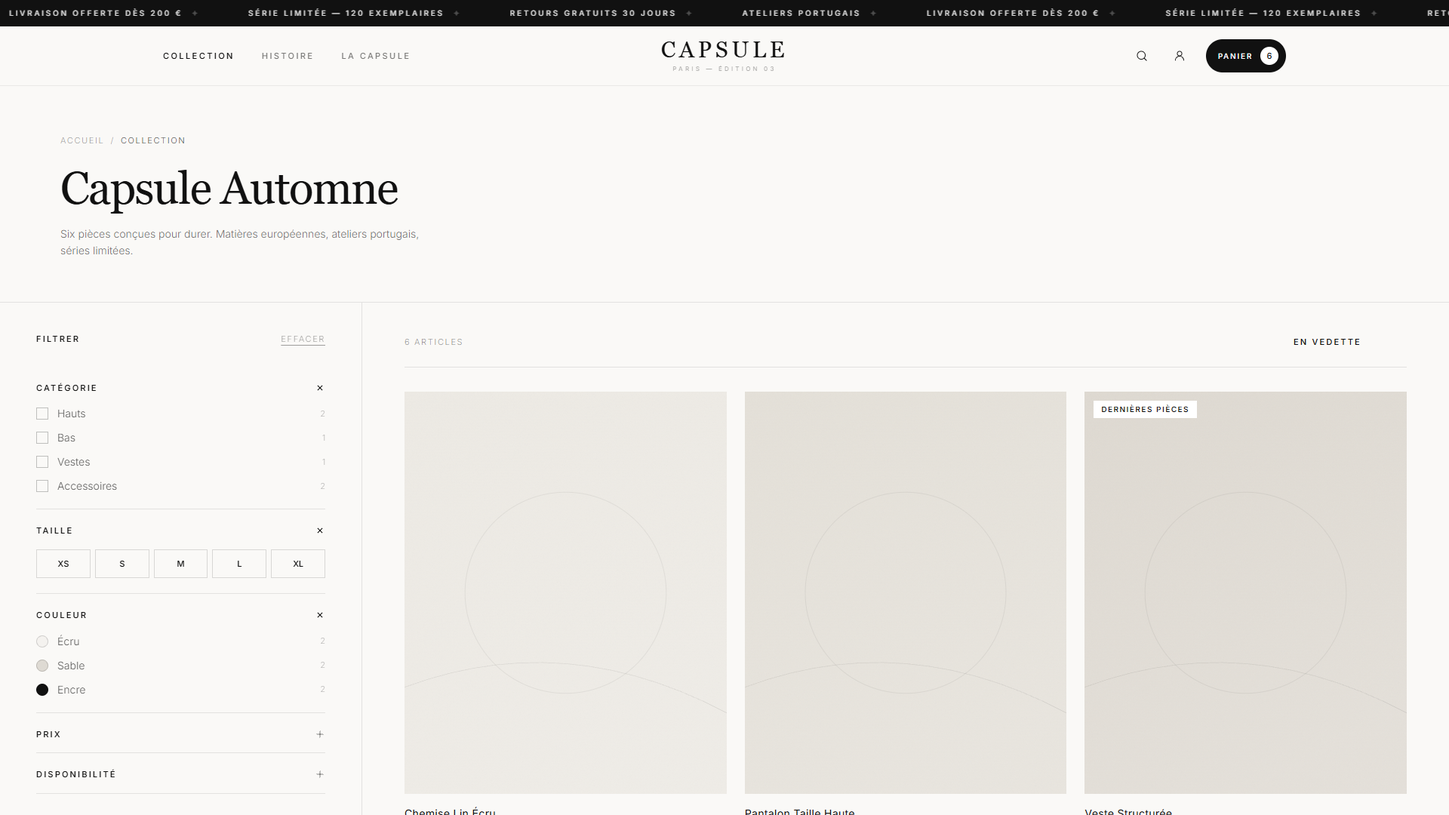
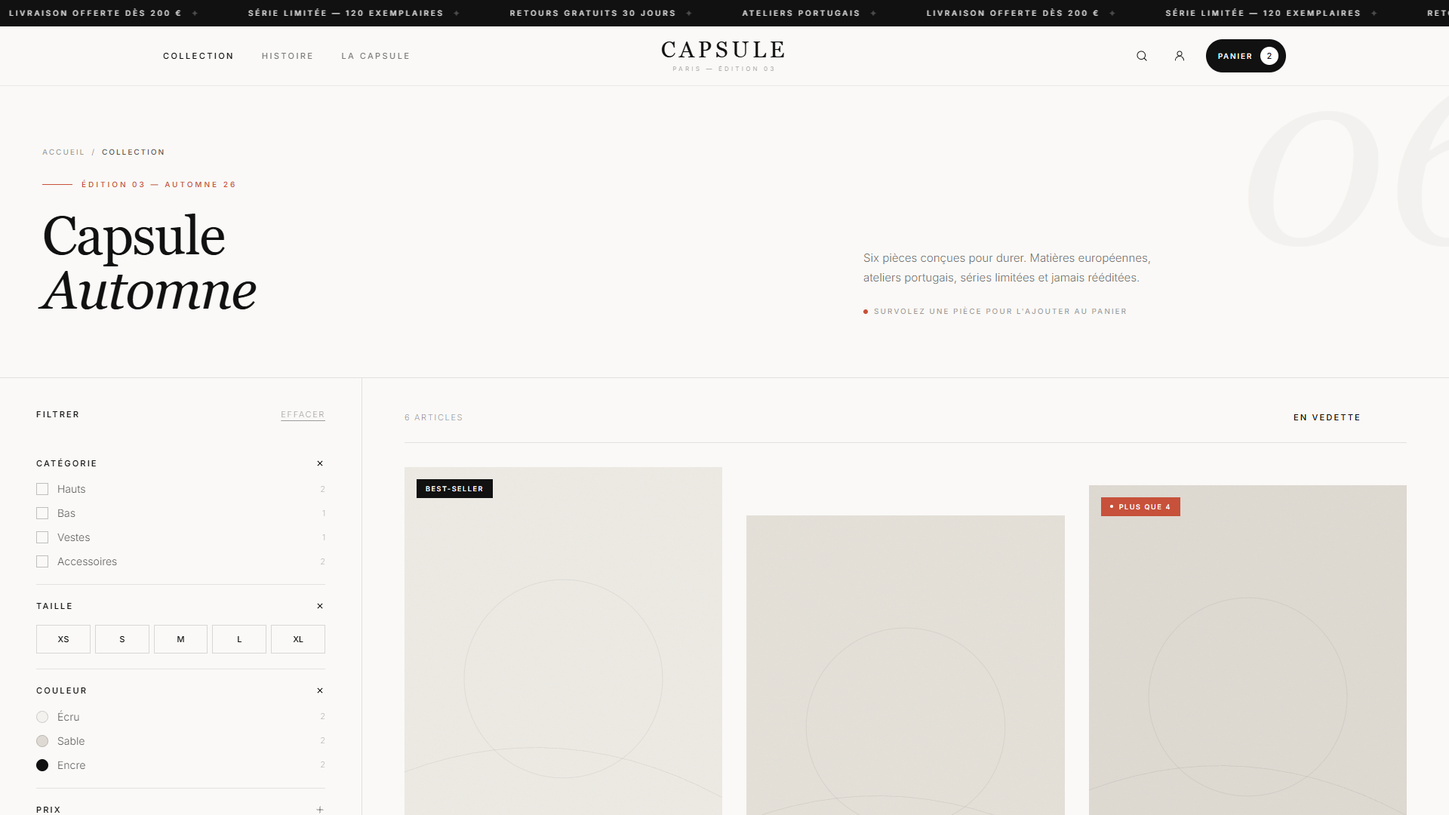
Traitement editorial sur collection et fiche produit + ajout rapide
Collection : en-tete editorial asymetrique, grille redessinee avec
ajout rapide au survol (tailles epuisees barrees), badges de stock.
Le decalage vertical est positionnel (nth-child) et non par carte,
pour que l'asymetrie survive au reordonnancement du tri.

Fiche produit : galerie en mosaique asymetrique, colonne d'achat
sticky, titre serif sur deux lignes, citation d'atelier.

Corrige deux bugs reveles par les tests :
- le badge du panier partageait l'attribut data-count avec le
  compteur d'articles filtres, donc filtrer ecrasait le panier ;
  le badge utilise desormais data-cart-count
- le bouton d'ajout au panier de la fiche produit appelait
  l'ancien tiroir supprime, il ne se passait donc rien

diff --git a/collection.html b/collection.html
@@ -17,12 +17,32 @@
 <div id="site-header"></div>
 
 <main class="bg-[#FAF9F7]">
-  <header class="border-b border-[#111]/10 px-6 pb-10 pt-12 md:px-12 md:pb-14 md:pt-16 lg:px-20">
-    <nav class="mb-6 flex gap-2 text-[11px] font-light uppercase tracking-[0.15em] text-[#111]/40">
-      <a href="index.html" class="transition-colors hover:text-[#111]">Accueil</a><span>/</span><span class="text-[#111]/70">Collection</span>
-    </nav>
-    <h1 class="font-serif font-light leading-tight tracking-tight text-[#111] text-4xl md:text-5xl lg:text-6xl">Capsule Automne</h1>
-    <p class="mt-5 max-w-lg text-sm font-light leading-relaxed text-[#111]/60">Six pièces conçues pour durer. Matières européennes, ateliers portugais, séries limitées.</p>
+  <header class="relative overflow-hidden border-b border-[#111]/10 px-5 pb-14 pt-14 md:px-10 md:pb-20 md:pt-20 lg:px-14">
+    <span class="pointer-events-none absolute -right-24 -top-16 hidden select-none font-serif text-[20rem] italic leading-none text-[#111]/[0.035] lg:block">06</span>
+    <div class="relative grid max-w-[1600px] grid-cols-1 gap-8 lg:grid-cols-12 lg:items-end">
+      <div class="lg:col-span-7">
+        <nav class="mb-7 flex gap-2 text-[10px] font-medium uppercase tracking-[0.2em] text-[#111]/40">
+          <a href="index.html" class="transition-colors duration-500 hover:text-[#111]">Accueil</a><span>/</span><span class="text-[#111]/70">Collection</span>
+        </nav>
+        <div class="flex items-center gap-3">
+          <span class="h-px w-10 bg-[#C7513A]"></span>
+          <span class="text-[10px] font-medium uppercase tracking-[0.3em] text-[#C7513A]">Édition 03 — Automne 26</span>
+        </div>
+        <h1 class="mt-6 font-serif text-5xl font-light leading-[0.9] tracking-[-0.02em] text-[#111] md:text-6xl lg:text-7xl">
+          Capsule<br><span class="italic">Automne</span>
+        </h1>
+      </div>
+      <div class="lg:col-span-4 lg:col-start-9">
+        <p class="max-w-sm text-[15px] font-light leading-[1.75] text-[#111]/60">
+          Six pièces conçues pour durer. Matières européennes, ateliers portugais,
+          séries limitées et jamais rééditées.
+        </p>
+        <p class="mt-6 flex items-center gap-2 text-[10px] font-medium uppercase tracking-[0.2em] text-[#111]/40">
+          <span class="relative flex h-1.5 w-1.5"><span class="absolute inline-flex h-full w-full animate-ping rounded-full bg-[#C7513A] opacity-75"></span><span class="relative inline-flex h-1.5 w-1.5 rounded-full bg-[#C7513A]"></span></span>
+          Survolez une pièce pour l'ajouter au panier
+        </p>
+      </div>
+    </div>
   </header>
 
   <div class="lg:grid lg:grid-cols-12">
@@ -113,30 +133,126 @@
 
       <div data-chips class="hidden flex-wrap items-center gap-2 pt-5"></div>
 
-      <div data-grid class="grid grid-cols-2 gap-x-4 gap-y-12 pt-8 md:gap-x-6 lg:grid-cols-3">
+      <div data-grid class="grid grid-cols-2 gap-x-4 gap-y-14 pt-8 md:gap-x-6 lg:grid-cols-3 lg:gap-x-8">
         <article class="group" data-category="hauts" data-color="ecru" data-price="180" data-sizes="XS,S,M,L" data-stock="in">
-          <a href="produit.html" class="relative block overflow-hidden bg-[#f4f2ef]"><img src="assets/img/p01-chemise.svg" alt="Chemise Lin Écru" class="aspect-[4/5] w-full object-cover transition-transform duration-700 ease-out group-hover:scale-[1.03]"></a>
-          <h3 class="mt-4 text-sm font-normal tracking-wide text-[#111]">Chemise Lin Écru</h3><p class="mt-1 text-sm font-light text-[#111]/60">180 €</p>
+          <div class="relative overflow-hidden bg-[#EDEAE4]">
+            <a href="produit.html" class="block"><img src="assets/img/p01-chemise.svg" alt="Chemise Lin Écru" class="aspect-[3/4] w-full object-cover transition-transform duration-[900ms] ease-out group-hover:scale-[1.06]"></a>
+            <span class="absolute left-4 top-4 bg-[#111] px-3 py-1.5 text-[9px] font-medium uppercase tracking-[0.18em] text-white">Best-seller</span>
+            <button type="button" aria-label="Ajouter aux favoris" class="absolute right-4 top-4 flex h-9 w-9 items-center justify-center rounded-full bg-white/90 opacity-0 backdrop-blur transition-all duration-500 ease-out hover:bg-white group-hover:opacity-100">
+              <svg class="h-4 w-4 text-[#111]" fill="none" stroke="currentColor" stroke-width="1.4" viewBox="0 0 24 24"><path stroke-linecap="round" d="M12 20s-7-4.5-7-9.5A3.5 3.5 0 0 1 12 8a3.5 3.5 0 0 1 7 2.5c0 5-7 9.5-7 9.5Z"/></svg>
+            </button>
+            <div class="absolute inset-x-0 bottom-0 translate-y-full bg-white/95 p-4 backdrop-blur-md transition-transform duration-500 ease-out group-hover:translate-y-0 group-focus-within:translate-y-0">
+              <p class="mb-3 text-center text-[9px] font-medium uppercase tracking-[0.2em] text-[#111]/45">Ajout rapide</p>
+              <div class="flex gap-1.5"><button type="button" data-quick-add="Chemise Lin Écru" data-size="XS" class="flex-1 border border-[#111]/15 py-2.5 text-[11px] font-medium uppercase text-[#111] transition-all duration-300 ease-out hover:border-[#111] hover:bg-[#111] hover:text-white">XS</button><button type="button" data-quick-add="Chemise Lin Écru" data-size="S" class="flex-1 border border-[#111]/15 py-2.5 text-[11px] font-medium uppercase text-[#111] transition-all duration-300 ease-out hover:border-[#111] hover:bg-[#111] hover:text-white">S</button><button type="button" data-quick-add="Chemise Lin Écru" data-size="M" class="flex-1 border border-[#111]/15 py-2.5 text-[11px] font-medium uppercase text-[#111] transition-all duration-300 ease-out hover:border-[#111] hover:bg-[#111] hover:text-white">M</button><button type="button" data-quick-add="Chemise Lin Écru" data-size="L" class="flex-1 border border-[#111]/15 py-2.5 text-[11px] font-medium uppercase text-[#111] transition-all duration-300 ease-out hover:border-[#111] hover:bg-[#111] hover:text-white">L</button><button type="button" disabled class="flex-1 cursor-not-allowed border border-[#111]/10 py-2.5 text-[11px] font-medium uppercase text-[#111]/20 line-through">XL</button></div>
+            </div>
+          </div>
+          <div class="mt-5 flex items-start justify-between gap-4">
+            <div>
+              <h3 class="font-serif text-lg font-light text-[#111]"><a href="produit.html" class="transition-colors duration-500 hover:text-[#C7513A]">Chemise Lin Écru</a></h3>
+              <p class="mt-1.5 text-[11px] font-light uppercase tracking-[0.14em] text-[#111]/45">Lin lavé — 4 coloris</p>
+            </div>
+            <p class="shrink-0 font-serif text-lg font-light text-[#111]">180 €</p>
+          </div>
         </article>
         <article class="group" data-category="bas" data-color="encre" data-price="240" data-sizes="S,M,L" data-stock="in">
-          <a href="produit.html" class="relative block overflow-hidden bg-[#f4f2ef]"><img src="assets/img/p02-pantalon.svg" alt="Pantalon Taille Haute" class="aspect-[4/5] w-full object-cover transition-transform duration-700 ease-out group-hover:scale-[1.03]"></a>
-          <h3 class="mt-4 text-sm font-normal tracking-wide text-[#111]">Pantalon Taille Haute</h3><p class="mt-1 text-sm font-light text-[#111]/60">240 €</p>
+          <div class="relative overflow-hidden bg-[#E4E0D8]">
+            <a href="produit.html" class="block"><img src="assets/img/p02-pantalon.svg" alt="Pantalon Taille Haute" class="aspect-[3/4] w-full object-cover transition-transform duration-[900ms] ease-out group-hover:scale-[1.06]"></a>
+            
+            <button type="button" aria-label="Ajouter aux favoris" class="absolute right-4 top-4 flex h-9 w-9 items-center justify-center rounded-full bg-white/90 opacity-0 backdrop-blur transition-all duration-500 ease-out hover:bg-white group-hover:opacity-100">
+              <svg class="h-4 w-4 text-[#111]" fill="none" stroke="currentColor" stroke-width="1.4" viewBox="0 0 24 24"><path stroke-linecap="round" d="M12 20s-7-4.5-7-9.5A3.5 3.5 0 0 1 12 8a3.5 3.5 0 0 1 7 2.5c0 5-7 9.5-7 9.5Z"/></svg>
+            </button>
+            <div class="absolute inset-x-0 bottom-0 translate-y-full bg-white/95 p-4 backdrop-blur-md transition-transform duration-500 ease-out group-hover:translate-y-0 group-focus-within:translate-y-0">
+              <p class="mb-3 text-center text-[9px] font-medium uppercase tracking-[0.2em] text-[#111]/45">Ajout rapide</p>
+              <div class="flex gap-1.5"><button type="button" disabled class="flex-1 cursor-not-allowed border border-[#111]/10 py-2.5 text-[11px] font-medium uppercase text-[#111]/20 line-through">XS</button><button type="button" data-quick-add="Pantalon Taille Haute" data-size="S" class="flex-1 border border-[#111]/15 py-2.5 text-[11px] font-medium uppercase text-[#111] transition-all duration-300 ease-out hover:border-[#111] hover:bg-[#111] hover:text-white">S</button><button type="button" data-quick-add="Pantalon Taille Haute" data-size="M" class="flex-1 border border-[#111]/15 py-2.5 text-[11px] font-medium uppercase text-[#111] transition-all duration-300 ease-out hover:border-[#111] hover:bg-[#111] hover:text-white">M</button><button type="button" data-quick-add="Pantalon Taille Haute" data-size="L" class="flex-1 border border-[#111]/15 py-2.5 text-[11px] font-medium uppercase text-[#111] transition-all duration-300 ease-out hover:border-[#111] hover:bg-[#111] hover:text-white">L</button><button type="button" disabled class="flex-1 cursor-not-allowed border border-[#111]/10 py-2.5 text-[11px] font-medium uppercase text-[#111]/20 line-through">XL</button></div>
+            </div>
+          </div>
+          <div class="mt-5 flex items-start justify-between gap-4">
+            <div>
+              <h3 class="font-serif text-lg font-light text-[#111]"><a href="produit.html" class="transition-colors duration-500 hover:text-[#C7513A]">Pantalon Taille Haute</a></h3>
+              <p class="mt-1.5 text-[11px] font-light uppercase tracking-[0.14em] text-[#111]/45">Coupe droite — 2 coloris</p>
+            </div>
+            <p class="shrink-0 font-serif text-lg font-light text-[#111]">240 €</p>
+          </div>
         </article>
         <article class="group" data-category="vestes" data-color="sable" data-price="390" data-sizes="S,M" data-stock="low">
-          <a href="produit.html" class="relative block overflow-hidden bg-[#f4f2ef]"><img src="assets/img/p03-veste.svg" alt="Veste Structurée" class="aspect-[4/5] w-full object-cover transition-transform duration-700 ease-out group-hover:scale-[1.03]"><span class="absolute left-3 top-3 bg-white px-2.5 py-1 text-[10px] font-medium uppercase tracking-[0.15em] text-[#111]">Dernières pièces</span></a>
-          <h3 class="mt-4 text-sm font-normal tracking-wide text-[#111]">Veste Structurée</h3><p class="mt-1 text-sm font-light text-[#111]/60">390 €</p>
+          <div class="relative overflow-hidden bg-[#DED9D1]">
+            <a href="produit.html" class="block"><img src="assets/img/p03-veste.svg" alt="Veste Structurée" class="aspect-[3/4] w-full object-cover transition-transform duration-[900ms] ease-out group-hover:scale-[1.06]"></a>
+            <span class="absolute left-4 top-4 flex items-center gap-2 bg-[#C7513A] px-3 py-1.5 text-[9px] font-medium uppercase tracking-[0.18em] text-white"><span class="h-1 w-1 rounded-full bg-white"></span>Plus que 4</span>
+            <button type="button" aria-label="Ajouter aux favoris" class="absolute right-4 top-4 flex h-9 w-9 items-center justify-center rounded-full bg-white/90 opacity-0 backdrop-blur transition-all duration-500 ease-out hover:bg-white group-hover:opacity-100">
+              <svg class="h-4 w-4 text-[#111]" fill="none" stroke="currentColor" stroke-width="1.4" viewBox="0 0 24 24"><path stroke-linecap="round" d="M12 20s-7-4.5-7-9.5A3.5 3.5 0 0 1 12 8a3.5 3.5 0 0 1 7 2.5c0 5-7 9.5-7 9.5Z"/></svg>
+            </button>
+            <div class="absolute inset-x-0 bottom-0 translate-y-full bg-white/95 p-4 backdrop-blur-md transition-transform duration-500 ease-out group-hover:translate-y-0 group-focus-within:translate-y-0">
+              <p class="mb-3 text-center text-[9px] font-medium uppercase tracking-[0.2em] text-[#111]/45">Ajout rapide</p>
+              <div class="flex gap-1.5"><button type="button" disabled class="flex-1 cursor-not-allowed border border-[#111]/10 py-2.5 text-[11px] font-medium uppercase text-[#111]/20 line-through">XS</button><button type="button" data-quick-add="Veste Structurée" data-size="S" class="flex-1 border border-[#111]/15 py-2.5 text-[11px] font-medium uppercase text-[#111] transition-all duration-300 ease-out hover:border-[#111] hover:bg-[#111] hover:text-white">S</button><button type="button" data-quick-add="Veste Structurée" data-size="M" class="flex-1 border border-[#111]/15 py-2.5 text-[11px] font-medium uppercase text-[#111] transition-all duration-300 ease-out hover:border-[#111] hover:bg-[#111] hover:text-white">M</button><button type="button" disabled class="flex-1 cursor-not-allowed border border-[#111]/10 py-2.5 text-[11px] font-medium uppercase text-[#111]/20 line-through">L</button><button type="button" disabled class="flex-1 cursor-not-allowed border border-[#111]/10 py-2.5 text-[11px] font-medium uppercase text-[#111]/20 line-through">XL</button></div>
+            </div>
+          </div>
+          <div class="mt-5 flex items-start justify-between gap-4">
+            <div>
+              <h3 class="font-serif text-lg font-light text-[#111]"><a href="produit.html" class="transition-colors duration-500 hover:text-[#C7513A]">Veste Structurée</a></h3>
+              <p class="mt-1.5 text-[11px] font-light uppercase tracking-[0.14em] text-[#111]/45">Épaules construites</p>
+            </div>
+            <p class="shrink-0 font-serif text-lg font-light text-[#111]">390 €</p>
+          </div>
         </article>
         <article class="group" data-category="accessoires" data-color="encre" data-price="120" data-sizes="S,M,L" data-stock="in">
-          <a href="produit.html" class="relative block overflow-hidden bg-[#f4f2ef]"><img src="assets/img/p02-pantalon.svg" alt="Ceinture Cuir" class="aspect-[4/5] w-full object-cover transition-transform duration-700 ease-out group-hover:scale-[1.03]"></a>
-          <h3 class="mt-4 text-sm font-normal tracking-wide text-[#111]">Ceinture Cuir</h3><p class="mt-1 text-sm font-light text-[#111]/60">120 €</p>
+          <div class="relative overflow-hidden bg-[#E4E0D8]">
+            <a href="produit.html" class="block"><img src="assets/img/p02-pantalon.svg" alt="Ceinture Cuir" class="aspect-[3/4] w-full object-cover transition-transform duration-[900ms] ease-out group-hover:scale-[1.06]"></a>
+            
+            <button type="button" aria-label="Ajouter aux favoris" class="absolute right-4 top-4 flex h-9 w-9 items-center justify-center rounded-full bg-white/90 opacity-0 backdrop-blur transition-all duration-500 ease-out hover:bg-white group-hover:opacity-100">
+              <svg class="h-4 w-4 text-[#111]" fill="none" stroke="currentColor" stroke-width="1.4" viewBox="0 0 24 24"><path stroke-linecap="round" d="M12 20s-7-4.5-7-9.5A3.5 3.5 0 0 1 12 8a3.5 3.5 0 0 1 7 2.5c0 5-7 9.5-7 9.5Z"/></svg>
+            </button>
+            <div class="absolute inset-x-0 bottom-0 translate-y-full bg-white/95 p-4 backdrop-blur-md transition-transform duration-500 ease-out group-hover:translate-y-0 group-focus-within:translate-y-0">
+              <p class="mb-3 text-center text-[9px] font-medium uppercase tracking-[0.2em] text-[#111]/45">Ajout rapide</p>
+              <div class="flex gap-1.5"><button type="button" disabled class="flex-1 cursor-not-allowed border border-[#111]/10 py-2.5 text-[11px] font-medium uppercase text-[#111]/20 line-through">XS</button><button type="button" data-quick-add="Ceinture Cuir" data-size="S" class="flex-1 border border-[#111]/15 py-2.5 text-[11px] font-medium uppercase text-[#111] transition-all duration-300 ease-out hover:border-[#111] hover:bg-[#111] hover:text-white">S</button><button type="button" data-quick-add="Ceinture Cuir" data-size="M" class="flex-1 border border-[#111]/15 py-2.5 text-[11px] font-medium uppercase text-[#111] transition-all duration-300 ease-out hover:border-[#111] hover:bg-[#111] hover:text-white">M</button><button type="button" data-quick-add="Ceinture Cuir" data-size="L" class="flex-1 border border-[#111]/15 py-2.5 text-[11px] font-medium uppercase text-[#111] transition-all duration-300 ease-out hover:border-[#111] hover:bg-[#111] hover:text-white">L</button><button type="button" disabled class="flex-1 cursor-not-allowed border border-[#111]/10 py-2.5 text-[11px] font-medium uppercase text-[#111]/20 line-through">XL</button></div>
+            </div>
+          </div>
+          <div class="mt-5 flex items-start justify-between gap-4">
+            <div>
+              <h3 class="font-serif text-lg font-light text-[#111]"><a href="produit.html" class="transition-colors duration-500 hover:text-[#C7513A]">Ceinture Cuir</a></h3>
+              <p class="mt-1.5 text-[11px] font-light uppercase tracking-[0.14em] text-[#111]/45">Cuir pleine fleur</p>
+            </div>
+            <p class="shrink-0 font-serif text-lg font-light text-[#111]">120 €</p>
+          </div>
         </article>
         <article class="group" data-category="accessoires" data-color="ecru" data-price="95" data-sizes="XS,S,M,L,XL" data-stock="in">
-          <a href="produit.html" class="relative block overflow-hidden bg-[#f4f2ef]"><img src="assets/img/p01-chemise.svg" alt="Foulard Soie" class="aspect-[4/5] w-full object-cover transition-transform duration-700 ease-out group-hover:scale-[1.03]"><span class="absolute left-3 top-3 bg-[#111] px-2.5 py-1 text-[10px] font-medium uppercase tracking-[0.15em] text-white">Nouveau</span></a>
-          <h3 class="mt-4 text-sm font-normal tracking-wide text-[#111]">Foulard Soie</h3><p class="mt-1 text-sm font-light text-[#111]/60">95 €</p>
+          <div class="relative overflow-hidden bg-[#EDEAE4]">
+            <a href="produit.html" class="block"><img src="assets/img/p01-chemise.svg" alt="Foulard Soie" class="aspect-[3/4] w-full object-cover transition-transform duration-[900ms] ease-out group-hover:scale-[1.06]"></a>
+            <span class="absolute left-4 top-4 bg-[#111] px-3 py-1.5 text-[9px] font-medium uppercase tracking-[0.18em] text-white">Nouveau</span>
+            <button type="button" aria-label="Ajouter aux favoris" class="absolute right-4 top-4 flex h-9 w-9 items-center justify-center rounded-full bg-white/90 opacity-0 backdrop-blur transition-all duration-500 ease-out hover:bg-white group-hover:opacity-100">
+              <svg class="h-4 w-4 text-[#111]" fill="none" stroke="currentColor" stroke-width="1.4" viewBox="0 0 24 24"><path stroke-linecap="round" d="M12 20s-7-4.5-7-9.5A3.5 3.5 0 0 1 12 8a3.5 3.5 0 0 1 7 2.5c0 5-7 9.5-7 9.5Z"/></svg>
+            </button>
+            <div class="absolute inset-x-0 bottom-0 translate-y-full bg-white/95 p-4 backdrop-blur-md transition-transform duration-500 ease-out group-hover:translate-y-0 group-focus-within:translate-y-0">
+              <p class="mb-3 text-center text-[9px] font-medium uppercase tracking-[0.2em] text-[#111]/45">Ajout rapide</p>
+              <div class="flex gap-1.5"><button type="button" data-quick-add="Foulard Soie" data-size="XS" class="flex-1 border border-[#111]/15 py-2.5 text-[11px] font-medium uppercase text-[#111] transition-all duration-300 ease-out hover:border-[#111] hover:bg-[#111] hover:text-white">XS</button><button type="button" data-quick-add="Foulard Soie" data-size="S" class="flex-1 border border-[#111]/15 py-2.5 text-[11px] font-medium uppercase text-[#111] transition-all duration-300 ease-out hover:border-[#111] hover:bg-[#111] hover:text-white">S</button><button type="button" data-quick-add="Foulard Soie" data-size="M" class="flex-1 border border-[#111]/15 py-2.5 text-[11px] font-medium uppercase text-[#111] transition-all duration-300 ease-out hover:border-[#111] hover:bg-[#111] hover:text-white">M</button><button type="button" data-quick-add="Foulard Soie" data-size="L" class="flex-1 border border-[#111]/15 py-2.5 text-[11px] font-medium uppercase text-[#111] transition-all duration-300 ease-out hover:border-[#111] hover:bg-[#111] hover:text-white">L</button><button type="button" data-quick-add="Foulard Soie" data-size="XL" class="flex-1 border border-[#111]/15 py-2.5 text-[11px] font-medium uppercase text-[#111] transition-all duration-300 ease-out hover:border-[#111] hover:bg-[#111] hover:text-white">XL</button></div>
+            </div>
+          </div>
+          <div class="mt-5 flex items-start justify-between gap-4">
+            <div>
+              <h3 class="font-serif text-lg font-light text-[#111]"><a href="produit.html" class="transition-colors duration-500 hover:text-[#C7513A]">Foulard Soie</a></h3>
+              <p class="mt-1.5 text-[11px] font-light uppercase tracking-[0.14em] text-[#111]/45">Soie sergée — taille unique</p>
+            </div>
+            <p class="shrink-0 font-serif text-lg font-light text-[#111]">95 €</p>
+          </div>
         </article>
         <article class="group" data-category="hauts" data-color="sable" data-price="140" data-sizes="M,L,XL" data-stock="in">
-          <a href="produit.html" class="relative block overflow-hidden bg-[#f4f2ef]"><img src="assets/img/p01-chemise.svg" alt="Sac Toile" class="aspect-[4/5] w-full object-cover transition-transform duration-700 ease-out group-hover:scale-[1.03]"></a>
-          <h3 class="mt-4 text-sm font-normal tracking-wide text-[#111]">Sac Toile</h3><p class="mt-1 text-sm font-light text-[#111]/60">140 €</p>
+          <div class="relative overflow-hidden bg-[#DED9D1]">
+            <a href="produit.html" class="block"><img src="assets/img/p03-veste.svg" alt="Sac Toile" class="aspect-[3/4] w-full object-cover transition-transform duration-[900ms] ease-out group-hover:scale-[1.06]"></a>
+            
+            <button type="button" aria-label="Ajouter aux favoris" class="absolute right-4 top-4 flex h-9 w-9 items-center justify-center rounded-full bg-white/90 opacity-0 backdrop-blur transition-all duration-500 ease-out hover:bg-white group-hover:opacity-100">
+              <svg class="h-4 w-4 text-[#111]" fill="none" stroke="currentColor" stroke-width="1.4" viewBox="0 0 24 24"><path stroke-linecap="round" d="M12 20s-7-4.5-7-9.5A3.5 3.5 0 0 1 12 8a3.5 3.5 0 0 1 7 2.5c0 5-7 9.5-7 9.5Z"/></svg>
+            </button>
+            <div class="absolute inset-x-0 bottom-0 translate-y-full bg-white/95 p-4 backdrop-blur-md transition-transform duration-500 ease-out group-hover:translate-y-0 group-focus-within:translate-y-0">
+              <p class="mb-3 text-center text-[9px] font-medium uppercase tracking-[0.2em] text-[#111]/45">Ajout rapide</p>
+              <div class="flex gap-1.5"><button type="button" disabled class="flex-1 cursor-not-allowed border border-[#111]/10 py-2.5 text-[11px] font-medium uppercase text-[#111]/20 line-through">XS</button><button type="button" disabled class="flex-1 cursor-not-allowed border border-[#111]/10 py-2.5 text-[11px] font-medium uppercase text-[#111]/20 line-through">S</button><button type="button" data-quick-add="Sac Toile" data-size="M" class="flex-1 border border-[#111]/15 py-2.5 text-[11px] font-medium uppercase text-[#111] transition-all duration-300 ease-out hover:border-[#111] hover:bg-[#111] hover:text-white">M</button><button type="button" data-quick-add="Sac Toile" data-size="L" class="flex-1 border border-[#111]/15 py-2.5 text-[11px] font-medium uppercase text-[#111] transition-all duration-300 ease-out hover:border-[#111] hover:bg-[#111] hover:text-white">L</button><button type="button" data-quick-add="Sac Toile" data-size="XL" class="flex-1 border border-[#111]/15 py-2.5 text-[11px] font-medium uppercase text-[#111] transition-all duration-300 ease-out hover:border-[#111] hover:bg-[#111] hover:text-white">XL</button></div>
+            </div>
+          </div>
+          <div class="mt-5 flex items-start justify-between gap-4">
+            <div>
+              <h3 class="font-serif text-lg font-light text-[#111]"><a href="produit.html" class="transition-colors duration-500 hover:text-[#C7513A]">Sac Toile</a></h3>
+              <p class="mt-1.5 text-[11px] font-light uppercase tracking-[0.14em] text-[#111]/45">Toile de coton lavée</p>
+            </div>
+            <p class="shrink-0 font-serif text-lg font-light text-[#111]">140 €</p>
+          </div>
         </article>
       </div>
 
@@ -251,6 +367,12 @@ document.addEventListener('DOMContentLoaded', () => {
   };
   document.querySelector('[data-filters-open]').addEventListener('click', () => set(true));
   panel.querySelectorAll('[data-filters-close]').forEach(b => b.addEventListener('click', () => set(false)));
+
+  document.querySelectorAll('[data-quick-add]').forEach(btn => {
+    btn.addEventListener('click', () => {
+      capsuleToast(btn.dataset.quickAdd, 'Taille ' + btn.dataset.size + ' — ajouté au panier');
+    });
+  });
 
   apply();
 });

diff --git a/produit.html b/produit.html
@@ -17,26 +17,41 @@
 <div id="site-header"></div>
 
 <main class="bg-[#FAF9F7]">
-  <div class="lg:grid lg:grid-cols-2 lg:items-start">
+  <div class="mx-auto grid max-w-[1600px] grid-cols-1 items-start gap-6 px-0 lg:grid-cols-12 lg:gap-8 lg:px-14 lg:py-10">
 
-    <div class="lg:sticky lg:top-[73px]">
-      <div class="flex snap-x snap-mandatory overflow-x-auto lg:grid lg:grid-cols-1 lg:gap-1 lg:overflow-visible">
-        <img src="assets/img/p01-chemise.svg" alt="Chemise Lin Écru — face" class="aspect-[4/5] w-full shrink-0 snap-center object-cover">
-        <img src="assets/img/p02-pantalon.svg" alt="Chemise Lin Écru — dos" class="aspect-[4/5] w-full shrink-0 snap-center object-cover">
-        <img src="assets/img/p03-veste.svg" alt="Chemise Lin Écru — détail" class="aspect-[4/5] w-full shrink-0 snap-center object-cover">
+    <div class="lg:col-span-7">
+      <div class="grid grid-cols-12 gap-2 md:gap-3">
+        <figure class="group relative col-span-12 overflow-hidden bg-[#EDEAE4]">
+          <img src="assets/img/p01-chemise.svg" alt="Chemise Lin Écru portée de face" class="aspect-[4/5] w-full object-cover transition-transform duration-[900ms] ease-out group-hover:scale-105">
+          <figcaption class="absolute bottom-5 left-5 bg-white/90 px-3 py-1.5 text-[9px] font-medium uppercase tracking-[0.18em] text-[#111] backdrop-blur">Porté taille S</figcaption>
+        </figure>
+        <figure class="group col-span-7 overflow-hidden bg-[#E4E0D8]">
+          <img src="assets/img/p02-pantalon.svg" alt="Chemise Lin Écru vue de dos" class="aspect-square w-full object-cover transition-transform duration-[900ms] ease-out group-hover:scale-105">
+        </figure>
+        <figure class="group col-span-5 overflow-hidden bg-[#DED9D1]">
+          <img src="assets/img/p03-veste.svg" alt="Détail du tissage et des boutons corozo" class="aspect-square w-full object-cover transition-transform duration-[900ms] ease-out group-hover:scale-105">
+        </figure>
       </div>
+
+      <figure class="mt-2 flex flex-col justify-center bg-[#111] p-8 md:mt-3 md:p-12">
+        <svg class="h-5 w-5 text-white/35" fill="none" stroke="currentColor" stroke-width="1.2" viewBox="0 0 24 24"><path stroke-linecap="round" d="M8 6h13M8 12h13M8 18h13M3 6h.01M3 12h.01M3 18h.01"/></svg>
+        <blockquote class="mt-6 font-serif text-2xl font-light italic leading-snug text-white md:text-3xl">
+          « Le lin lavé gagne en tenue à chaque passage. Une chemise qui vieillit mieux qu'elle ne se vend. »
+        </blockquote>
+        <figcaption class="mt-6 text-[10px] font-medium uppercase tracking-[0.2em] text-white/40">Notes de l'atelier — Porto</figcaption>
+      </figure>
     </div>
 
-    <div class="px-6 pb-20 pt-8 md:px-12 lg:px-16 lg:pt-20 xl:px-24">
+    <div class="px-5 pb-20 pt-10 md:px-10 lg:col-span-5 lg:sticky lg:top-[132px] lg:px-0 lg:pl-12 lg:pt-4 xl:pl-16">
 
       <nav class="mb-8 flex gap-2 text-[11px] font-light uppercase tracking-[0.15em] text-[#111]/40">
         <a href="index.html" class="transition-colors hover:text-[#111]">Accueil</a><span>/</span>
         <a href="collection.html" class="transition-colors hover:text-[#111]">Collection</a>
       </nav>
 
-      <p class="text-[11px] font-light uppercase tracking-[0.3em] text-[#111]/40">Édition limitée</p>
-      <h1 class="font-serif mt-4 font-light leading-tight tracking-tight text-[#111] text-3xl md:text-4xl lg:text-5xl">Chemise Lin Écru</h1>
-      <p class="mt-4 text-xl font-light text-[#111]">180 €</p>
+      <div class="flex items-center gap-3"><span class="h-px w-10 bg-[#C7513A]"></span><span class="text-[10px] font-medium uppercase tracking-[0.3em] text-[#C7513A]">Édition limitée — 120 exemplaires</span></div>
+      <h1 class="mt-6 font-serif text-4xl font-light leading-[0.95] tracking-[-0.02em] text-[#111] md:text-5xl lg:text-[3.4rem]">Chemise<br><span class="italic">Lin Écru</span></h1>
+      <p class="mt-6 font-serif text-2xl font-light text-[#111]">180 €</p>
       <p class="mt-1 text-[11px] font-light text-[#111]/40">Taxes incluses. Livraison calculée au paiement.</p>
 
       <p class="mt-8 max-w-md text-sm font-light leading-relaxed text-[#111]/60">
@@ -130,7 +145,7 @@ document.addEventListener('DOMContentLoaded', () => {
       group.scrollIntoView({ behavior: 'smooth', block: 'center' });
       return;
     }
-    document.querySelector('[data-cart-open]').click();
+    capsuleToast('Chemise Lin Écru', 'Taille ' + form.querySelector('input[name="size"]:checked').value + ' — ajouté au panier');
   });
 });
 </script>

diff --git a/assets/app.js b/assets/app.js
@@ -62,7 +62,7 @@ const HEADER = `
 
       <a href="panier.html" class="group ml-1 flex items-center gap-2.5 rounded-full bg-[#111] py-2.5 pl-4 pr-2.5 transition-all duration-500 ease-out hover:bg-[#2b2b2b]">
         <span class="text-[10px] font-medium uppercase tracking-[0.18em] text-white">Panier</span>
-        <span data-count class="flex h-6 w-6 items-center justify-center rounded-full bg-white text-[11px] font-medium text-[#111] transition-transform duration-500 ease-out group-hover:scale-110">2</span>
+        <span data-cart-count class="flex h-6 w-6 items-center justify-center rounded-full bg-white text-[11px] font-medium text-[#111] transition-transform duration-500 ease-out group-hover:scale-110">2</span>
       </a>
     </div>
   </nav>
@@ -200,7 +200,7 @@ window.capsuleToast = (titre, sous) => {
   toast.querySelector('[data-toast-title]').textContent = titre;
   toast.querySelector('[data-toast-sub]').textContent = sous;
 
-  const count = document.querySelector('[data-count]');
+  const count = document.querySelector('[data-cart-count]');
   if (count) {
     count.textContent = +count.textContent + 1;
     count.animate([{ transform: 'scale(1)' }, { transform: 'scale(1.35)' }, { transform: 'scale(1)' }], { duration: 450, easing: 'ease-out' });

diff --git a/assets/site.css b/assets/site.css
@@ -16,3 +16,11 @@ html { scroll-behavior: smooth; }
 input[type="number"] { appearance: textfield; -moz-appearance: textfield; }
 input[type="number"]::-webkit-inner-spin-button,
 input[type="number"]::-webkit-outer-spin-button { appearance: none; margin: 0; }
+
+/* Grille collection : asymétrie éditoriale.
+   Positionnel (nth-child) et non par carte, pour que le décalage
+   reste stable quand le tri réordonne les éléments. */
+@media (min-width: 1024px) {
+  [data-grid] > *:nth-child(3n + 2) { margin-top: 4rem; }
+  [data-grid] > *:nth-child(3n + 3) { margin-top: 1.5rem; }
+}

diff --git a/index-minimal.html b/index-minimal.html
@@ -86,7 +86,7 @@
 <script>
 document.addEventListener('DOMContentLoaded', () => {
   document.querySelectorAll('[data-add]').forEach(b => b.addEventListener('click', () => {
-    document.querySelector('[data-cart-open]').click();
+    capsuleToast('Chemise Lin Écru', 'Taille ' + form.querySelector('input[name="size"]:checked').value + ' — ajouté au panier');
   }));
 });
 </script>
